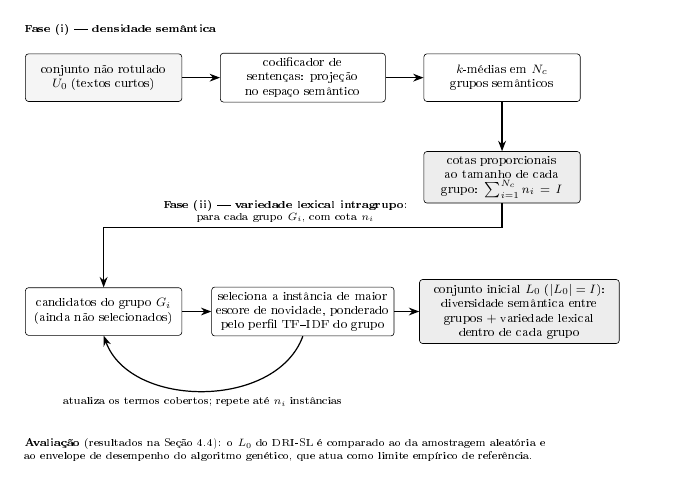
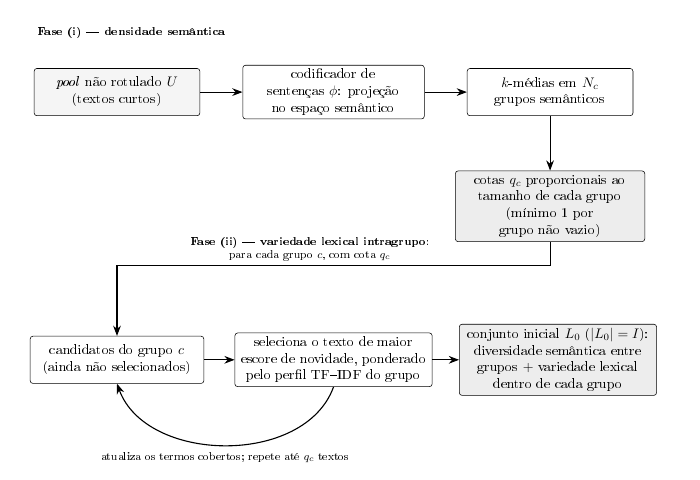
Apêndice C: passe de excelência (DRI-SL autocontido + figura em corpo 12)
Ordem do autor, mesmo goal dos Apêndices A e B.

a3-drisl/texto.tex: abertura telegráfica vira prosa com a sigla DRI-SL
expandida no próprio apêndice; ref de capítulo removida (autocontenção);
'7,7% de duplicatas exatas' conferido contra a Seção 3.2.2 (19.356
linhas = 7,7%) e reescrito com precisão ('7,7% das linhas repetem
descrição e rótulo'); figura inserida após as Etapas
(fig:ap-drisl-fases).

esq-drisl.tex recalibrado para corpo 12 (textwidth real 16cm) e adaptado
ao novo lar: notação do apêndice (grupo c, cota q_c, mínimo 1 por grupo
não vazio; U), citação na prosa, e a antiga faixa de avaliação removida
(a avaliação pertence ao método, não ao algoritmo). Zero refs externos.

Loop com 3 renders + zoom: 'es-paço' re-hifenizado (quebra recalibrada);
título da Fase (ii) raspava a caixa de cotas (descido); a linha cortava
os descendentes do rótulo (subido 1,5mm, conferido por zoom). Resultado:
0 erros / 0 overfull nas medidas reais.

Claude-Session: https://claude.ai/code/session_01XdLdLTUXQGvJT9rjXrz2Gq

diff --git a/3-metodo/esquemas-propostos/esq-drisl.tex b/3-metodo/esquemas-propostos/esq-drisl.tex
@@ -1,85 +1,74 @@
 % ============================================================================
-% ESQUEMA PROPOSTO (banca, sugestão — não mergeado): o algoritmo DRI-SL como
-% fluxo em duas fases — (i) densidade semântica e (ii) variedade lexical
-% intragrupo — seguido da avaliação. Ilustra a Seção sec:metodo-drisl.
-%
-% Uso no Cap. 3 (dentro de um ambiente figure):
+% ESQUEMA (banca): o algoritmo DRI-SL como fluxo em duas fases — (i)
+% densidade semântica e (ii) variedade lexical intragrupo. Inserido no
+% APÊNDICE C (a3-drisl/texto.tex) por ordem do autor (2026-08-23), dentro
+% de figure:
 %   \input{3-metodo/esquemas-propostos/esq-drisl}
-%   A citação do codificador de sentenças (\citep{Reimers2019SBERT}) vai na
-%   LEGENDA da figure, não pintada no desenho — assim o check-bib a enxerga.
+% AUTOCONTIDO: sem \ref para seções da tese (a antiga faixa de avaliação,
+% que remetia aos resultados, saiu — a avaliação pertence ao método, não ao
+% algoritmo; está no Cap. 3 e no esq-l0-tres-origens). A notação segue a do
+% próprio apêndice: grupo c, cota q_c. A citação do codificador
+% (Reimers2019SBERT) fica na prosa do apêndice.
 % Uso standalone (pré-visualização):
-%   \documentclass[tikz,border=6pt]{standalone}
+%   \documentclass[tikz,border=6pt,12pt]{standalone}
 %   \usetikzlibrary{arrows.meta, positioning}
 %   \begin{document}\input{esq-drisl.tex}\end{document}
-%   (no modo standalone, troque as \ref{...} por texto fixo ou defina-as)
+% GEOMETRIA CALIBRADA PARA CORPO 12 (ppginf/book 12pt, textwidth 16cm) —
+% a primeira versão, em corpo 10, quebrava no corpo real.
 % Requer apenas arrows.meta e positioning (já em packages.tex). Legível em
-% P&B: etapa de medição/entrada = cinza claro; processamento = branco;
-% produto = cinza médio; remissão = texto simples.
-% FREEZE respeitado: nenhum número de resultado; só os símbolos da própria
-% seção (U0, L0, I, Nc, Gi, ni) e nenhum gráfico decorativo que pareça dado.
-% Terminologia em camadas: a figura não afirma o resultado da comparação
-% (isso é do Capítulo 4); só diz CONTRA O QUE o DRI-SL é avaliado.
+% P&B: entrada = cinza claro; operação = branco; produto = cinza médio.
+% FREEZE respeitado: nenhum número; só os símbolos do próprio apêndice
+% (U, L0, I, N_c, c, q_c).
 % ============================================================================
 \begin{tikzpicture}[
     x=1cm, y=1cm,
-    caixa/.style={draw, rounded corners=2pt, align=center, text width=34mm,
-                  minimum height=11mm, inner sep=3pt, font=\footnotesize},
+    caixa/.style={draw, rounded corners=2pt, align=center, text width=42mm,
+                  minimum height=12mm, inner sep=3pt, font=\footnotesize},
     entrada/.style={caixa, fill=gray!8},
     produto/.style={caixa, fill=gray!14},
-    seta/.style={-{Stealth[length=2.4mm]}, thick},
+    seta/.style={-{Stealth[length=2.6mm]}, thick},
     rot/.style={font=\scriptsize, align=center, inner sep=2pt}
 ]
     % ---------------- fase (i): densidade semântica ------------------------
-    \node[rot, anchor=west] (tit1) at (-1.9,1.1)
+    \node[rot, anchor=west] at (-2.1,1.5)
         {\textbf{Fase (i) --- densidade semântica}};
 
-    \node[entrada] (u0) at (0,0)
-        {conjunto não rotulado $U_0$ (textos curtos)};
-    \node[caixa, text width=36mm] (enc) at (4.6,0)
-        {codificador de\\sentenças: projeção\\no espaço semântico};
-    \node[caixa] (km) at (9.2,0)
-        {$k$-médias em $N_c$ grupos semânticos};
+    \node[entrada, text width=40mm] (u0) at (0,0)
+        {\textit{pool} não rotulado $U$\\(textos curtos)};
+    \node[caixa, text width=44mm] (enc) at (5.5,0)
+        {codificador de\\sentenças $\phi$: projeção\\no espaço semântico};
+    \node[caixa, text width=40mm] (km) at (11.0,0)
+        {$k$-médias em $N_c$\\grupos semânticos};
     \draw[seta] (u0) -- (enc);
     \draw[seta] (enc) -- (km);
 
-    \node[produto] (aloc) at (9.2,-2.3)
-        {cotas proporcionais ao tamanho de cada grupo:
-         $\sum_{i=1}^{N_c} n_i = I$};
+    \node[produto, text width=46mm] (aloc) at (11.0,-2.9)
+        {cotas $q_c$ proporcionais ao\\tamanho de cada grupo\\
+         (mínimo 1 por grupo não vazio)};
     \draw[seta] (km) -- (aloc);
 
     % ---------------- fase (ii): variedade lexical intragrupo --------------
-    % o título da fase É o rótulo da seta em L (um elemento só: título de
-    % banda separado era atravessado pela descida da seta — achado visual)
-    \node[caixa] (cand) at (0,-5.4)
-        {candidatos do grupo $G_i$ (ainda não selecionados)};
-    \node[caixa, text width=40mm] (sel) at (4.6,-5.4)
-        {seleciona a instância de maior escore de novidade, ponderado pelo
-         perfil TF--IDF do grupo};
-    \node[produto, text width=44mm] (l0) at (9.6,-5.4)
+    % o título da fase É o rótulo da seta em L (título solto era
+    % atravessado pela descida — achado das inspeções anteriores)
+    \node[caixa] (cand) at (0,-6.8)
+        {candidatos do grupo $c$\\(ainda não selecionados)};
+    \node[caixa, text width=48mm] (sel) at (5.5,-6.8)
+        {seleciona o texto de maior\\escore de novidade, ponderado\\
+         pelo perfil TF--IDF do grupo};
+    \node[produto, text width=48mm] (l0) at (11.2,-6.8)
         {conjunto inicial $L_0$ (\mbox{$|L_0|=I$}):\\
          diversidade semântica entre\\
          grupos $+$ variedade lexical\\
          dentro de cada grupo};
 
-    % a linha em L conduz da alocação para o laço de seleção; o rótulo na
-    % horizontal é o título da fase (desenhada aqui, depois dos nós)
-    \draw[seta] (aloc.south) -- ++(0,-0.55) -| (cand.north);
-    % rótulo-título posicionado à mão sobre o trecho horizontal, com as
-    % bordas afastadas das duas descidas verticais (x=0 e x=9,2)
-    \node[rot, anchor=south] at (4.2,-3.42)
+    \draw[seta] (aloc.south) -- ++(0,-0.6) -| (cand.north);
+    \node[rot, anchor=south] at (4.9,-4.35)
         {\textbf{Fase (ii) --- variedade lexical intragrupo}:\\
-         para cada grupo $G_i$, com cota $n_i$};
+         para cada grupo $c$, com cota $q_c$};
 
     \draw[seta] (cand) -- (sel);
     \draw[seta] (sel) -- (l0);
     \draw[seta] (sel.south) to[out=250, in=290]
-        node[rot, below=2pt] {atualiza os termos cobertos; repete até $n_i$ instâncias}
+        node[rot, below=3pt] {atualiza os termos cobertos; repete até $q_c$ textos}
         (cand.south);
-
-    % ---------------- avaliação (sem afirmar resultado) --------------------
-    \node[rot, anchor=west, text width=124mm, align=left] (tit3) at (-1.9,-8.6)
-        {\textbf{Avaliação} (resultados na Seção~\ref{sec:res-l0-drisl}): o
-         $L_0$ do DRI-SL é comparado ao da amostragem aleatória e ao envelope
-         de desempenho do algoritmo genético, que atua como limite empírico
-         de referência.};
 \end{tikzpicture}

diff --git a/a3-drisl/texto.tex b/a3-drisl/texto.tex
@@ -3,10 +3,14 @@
 
 \section{Objetivo e entradas}
 
-Construir $L_0$ de tamanho alvo $I$ a partir do \textit{pool} não rotulado $U$, sem
-acesso a rótulos. Entradas: textos de $U$; codificador de sentenças $\phi$
-(SBERT multilíngue \citep{Reimers2019SBERT} na configuração da tese); número
-de grupos $N_c$ (padrão $\max(2, \lfloor\sqrt{I}\rfloor)$); semente.
+O DRI-SL (\textit{Diversidade Representativa Inicial via densidade
+Semântica e variedade Lexical}) constrói o conjunto inicial $L_0$, de
+tamanho alvo $I$, a partir do \textit{pool} não rotulado $U$, sem acesso a
+rótulos. Recebe quatro entradas: os textos de $U$; um codificador de
+sentenças $\phi$ (SBERT multilíngue \citep{Reimers2019SBERT}, na
+configuração da tese); o número de grupos $N_c$, com padrão
+$\max(2, \lfloor\sqrt{I}\rfloor)$; e uma semente. A
+Figura~\ref{fig:ap-drisl-fases} resume as duas fases.
 
 \section{Etapas}
 
@@ -23,6 +27,17 @@ de grupos $N_c$ (padrão $\max(2, \lfloor\sqrt{I}\rfloor)$); semente.
   cobertos; repetir até preencher $q_c$.
 \end{enumerate}
 
+\begin{figure}[htbp]
+    \centering
+    \input{3-metodo/esquemas-propostos/esq-drisl}
+    \caption{As duas fases do DRI-SL: a densidade semântica agrupa o
+    \textit{pool} e distribui as cotas $q_c$; a variedade lexical preenche
+    cada cota pelo escore de novidade, ponderado pelo perfil TF--IDF do
+    grupo. O resultado combina diversidade semântica entre grupos e
+    variedade lexical dentro de cada grupo.}
+    \label{fig:ap-drisl-fases}
+\end{figure}
+
 A seleção é determinística dada a semente (inicialização do $k$-médias). O
 custo é dominado pela codificação ($O(|U|)$ passagens do codificador) e pelo
 $k$-médias; a etapa lexical é $O(q_c \cdot |c|)$ por grupo, com operações
@@ -34,10 +49,12 @@ A etapa 1 garante \emph{representatividade}: como o número de grupos é
 $N_c = \max(2, \lfloor\sqrt{I}\rfloor)$ e cada grupo não vazio tem cota mínima
 de um, nenhum agrupamento fica de fora do $L_0$. A etapa 2 \emph{reduz} a
 redundância: dentro da região, evita quase-duplicatas (frequentes no domínio:
-7,7\% de duplicatas exatas) e força a cobertura de vocabulário, o recurso que,
-para um classificador por protótipo como o PVBin, constrói as fronteiras. A combinação explica o
-resultado do Capítulo~\ref{ch:resultados-l0}: cobertura semântica dá o
-esqueleto de classes; cobertura lexical dá o poder discriminativo por classe.
+$7{,}7\%$ das linhas repetem descrição e rótulo) e força a cobertura de
+vocabulário, o recurso que, para um classificador por protótipo como o
+PVBin, constrói as fronteiras entre classes. A combinação explica o
+comportamento observado nos experimentos de composição do conjunto inicial:
+a cobertura semântica dá o esqueleto de classes; a cobertura lexical dá o
+poder discriminativo dentro de cada classe.
 
 A implementação de referência acompanha o repositório de código da tese, com
 codificador alternativo TF--IDF+SVD para ambientes leves e testes unitários

diff --git a/3-metodo/esquemas-propostos/NOTA-esquemas.md b/3-metodo/esquemas-propostos/NOTA-esquemas.md
@@ -253,6 +253,32 @@ conteúdo + fluidez + compreensão + rigor):
 - Sem mudança de conteúdo técnico: equação, propriedades (afirmações),
   relação com a ALC e a frase da implementação de referência intactas.
 
+## Passe de excelência no Apêndice C (ordem do autor, 2026-08-23)
+
+Extensão da série ao `a3-drisl/texto.tex` (DRI-SL), mesmo goal:
+- **Forma/fluidez**: a abertura telegráfica ("Construir $L_0$...
+  Entradas: ...") virou prosa, com a sigla DRI-SL expandida no próprio
+  apêndice (autocontenção + princípio I) e as quatro entradas enumeradas
+  em frase corrida.
+- **Autocontenção**: removido o `\ref{ch:resultados-l0}` da Intuição
+  ("experimentos de composição do conjunto inicial", sem \ref); as Etapas
+  e a Intuição já eram autocontidas.
+- **Número verificado e tornado mais preciso**: "7,7% de duplicatas
+  exatas" conferido contra a Seção 3.2.2 (19.356 linhas = 7,7%) e
+  reescrito como "7,7% das linhas repetem descrição e rótulo" (o que a
+  fonte de fato mede).
+- **Figura**: `esq-drisl.tex` RECALIBRADO PARA CORPO 12 e adaptado ao novo
+  lar — notação do apêndice (grupo $c$, cota $q_c$, mínimo 1 por grupo não
+  vazio; $U$ em vez de $U_0$), citação na prosa, e a antiga faixa de
+  avaliação REMOVIDA (a avaliação pertence ao método — Cap. 3 e
+  esq-l0-tres-origens — não ao algoritmo). Inserida como
+  `fig:ap-drisl-fases` após as Etapas.
+- **Loop visual (3 renders + zoom)**: "es-paço" re-hifenizado (quebra
+  forçada recalibrada); o título da Fase (ii) raspava a caixa de cotas
+  (descido para junto da linha) e depois a linha cortava os descendentes
+  do rótulo (subido 1,5mm — conferido por zoom). Final: 0 erros,
+  0 overfull nas medidas reais (corpo 12, textwidth 16cm).
+
 ## Loop de melhoria com goal (registro, como a tarefa pede)
 
 Goal: "muito boa e ilustrativa" = fluxo inequívoco, rótulos claros, coerente

diff --git a/coordenacao/caixa/20260823-2200_banca_principal_entrega_passe-apendice-c-drisl.aberta.md b/coordenacao/caixa/20260823-2200_banca_principal_entrega_passe-apendice-c-drisl.aberta.md
@@ -1,0 +1,27 @@
+---
+de: banca
+para: principal
+tipo: tarefa
+acao_esperada: somar ao bloco de integração pendente (Apêndices B e A) o Apêndice C — as três entregas desta branch vão juntas, com a compilação completa (DoD IX)
+referencia: a3-drisl/texto.tex + esq-drisl.tex · branch banca/esquemas-tikz-metodo · ordem do autor (2026-08-23)
+criada_em: 2026-08-23T22:00:00Z
+---
+Conclusão do passe no Apêndice C (claim 2140; ordem do autor). Ele já
+recebeu as 3 páginas renderizadas.
+
+1. **a3-drisl/texto.tex**: abertura em prosa com a sigla DRI-SL expandida
+   no próprio apêndice; `\ref{ch:resultados-l0}` removido (autocontenção);
+   "7,7% de duplicatas exatas" conferido contra a Seção 3.2.2 (19.356
+   linhas) e reescrito com precisão ("7,7% das linhas repetem descrição e
+   rótulo"); figura inserida (fig:ap-drisl-fases) após as Etapas.
+2. **esq-drisl.tex recalibrado para corpo 12** e adaptado ao apêndice:
+   notação local (grupo c, cota q_c, mínimo 1 por grupo não vazio; U), e a
+   antiga faixa de avaliação removida — avaliação é assunto do método
+   (Cap. 3 / esq-l0-tres-origens), não do algoritmo. Zero \ref externos.
+3. Loop com 3 renders + zoom (defeitos achados e corrigidos: hifenização,
+   título raspando caixa, linha cortando descendentes). 0 erros /
+   0 overfull nas medidas reais (12pt, textwidth 16cm).
+
+Fila de integração em bloco desta branch: Apêndice B (2100) + Apêndice A
+(2130) + Apêndice C (esta) + correções 12pt dos esquemas inseridos. A
+compilação completa da tese é o critério de aceite.
